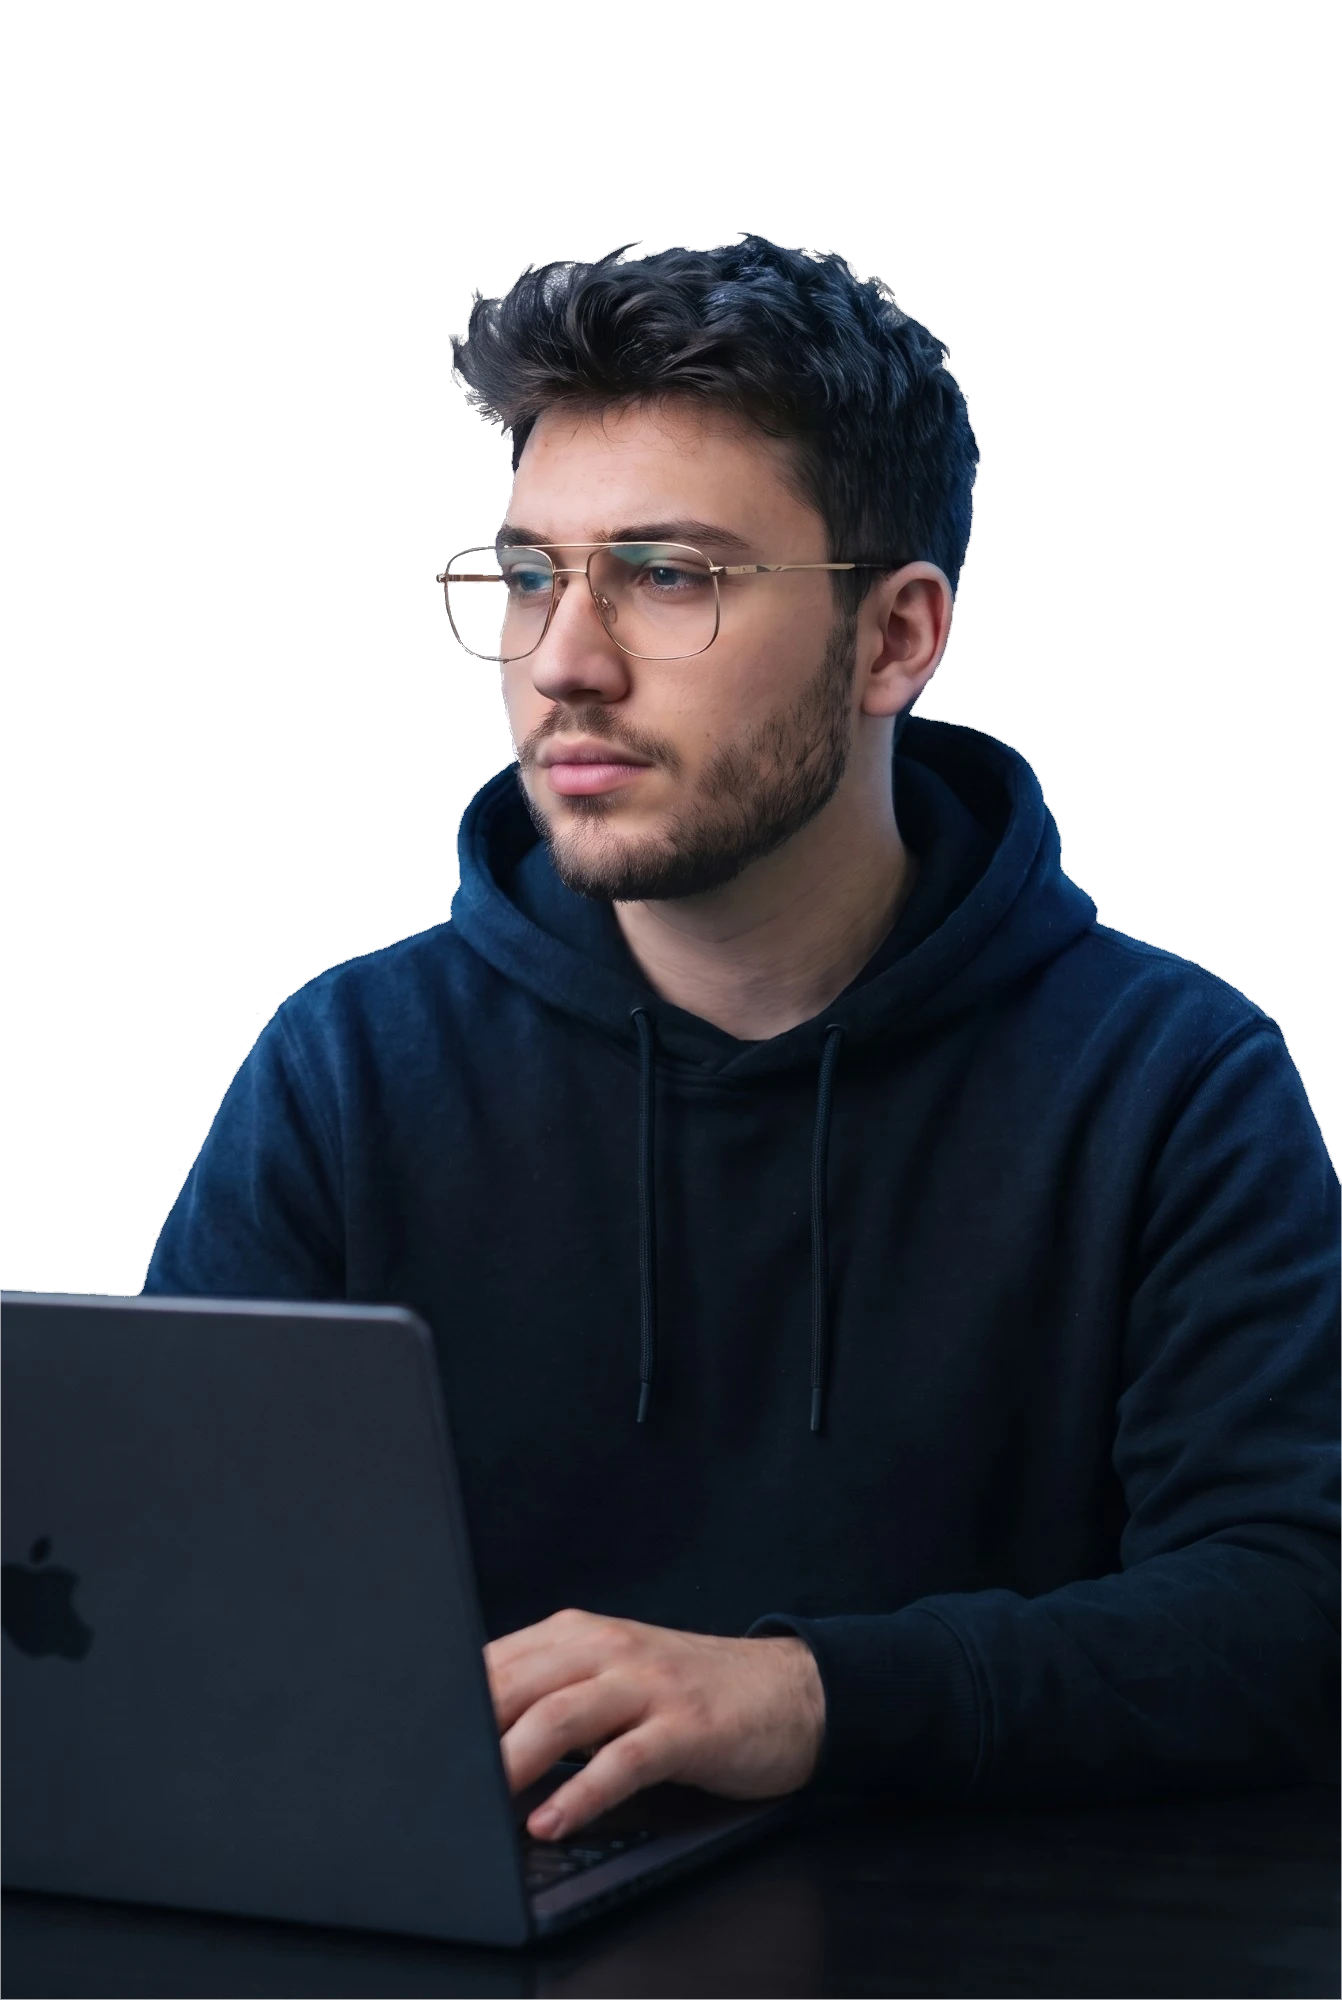
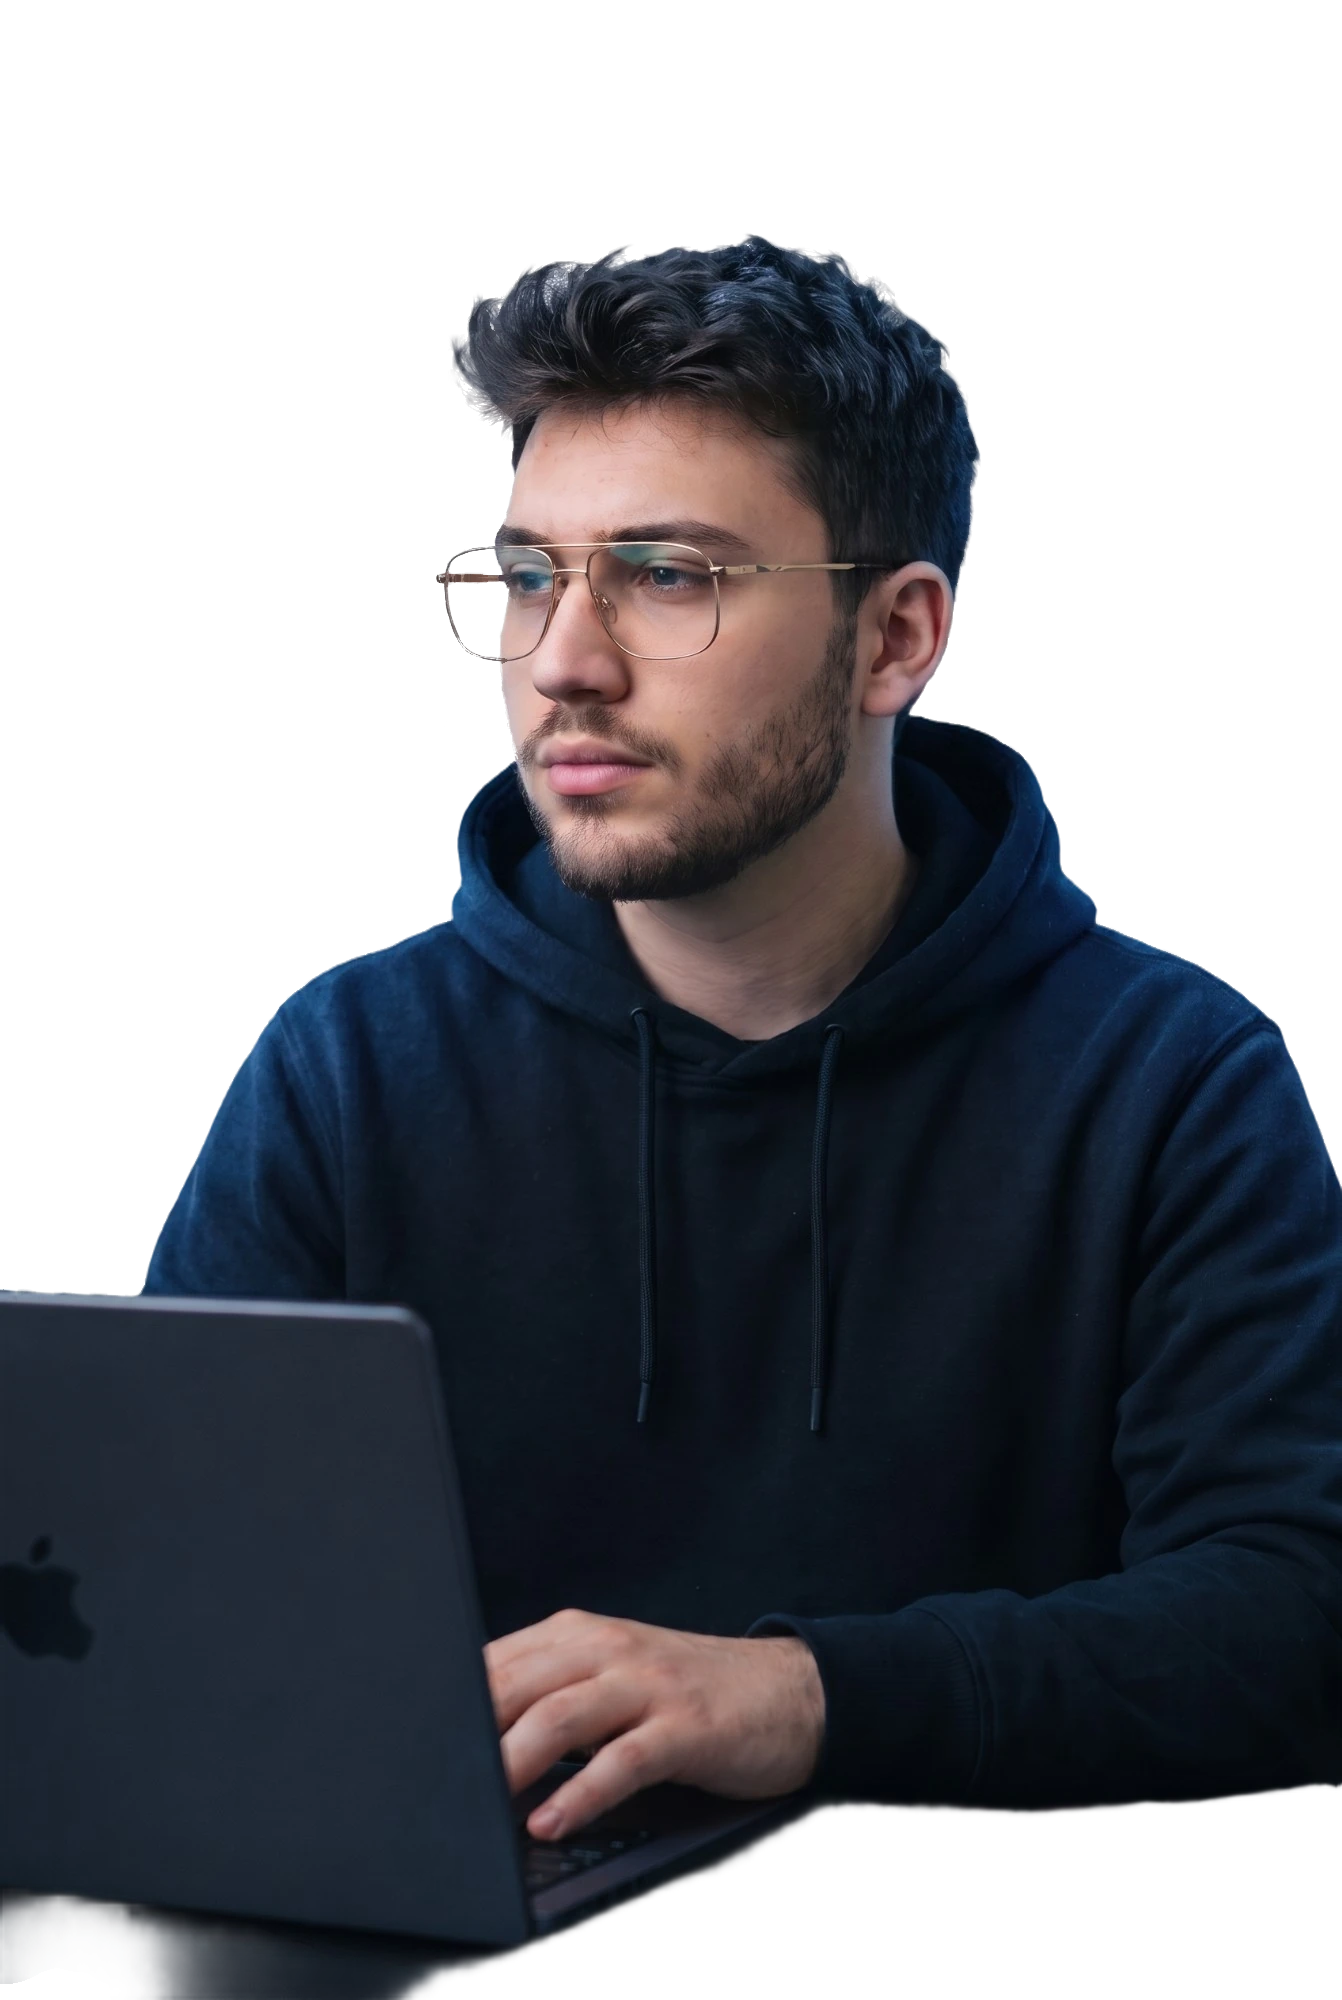
fix(home): smoother portrait edges, "6 yrs experience" stat
Recut the portrait from a BiRefNet portrait mask, which follows the
cheek and hoodie smoothly instead of stepping. The gold frame past the
cheek is still added back from the colour key, checker leftovers in the
soft hair edge are dropped, and the light fringe is recoloured without
hardening the edge. The third hero stat now reads "6 yrs experience".

Claude-Session: https://claude.ai/code/session_019DcBCuqzMDAtmg72CdH3Qh

diff --git a/src/lib/home.ts b/src/lib/home.ts
@@ -24,7 +24,7 @@ export const copy = {
     stats: [
       { n: { en: '2,441', tr: '2.441' }, l: { en: 'commits on Patimania', tr: "Patimania commit'i" } },
       { n: { en: '315k', tr: '315 bin' }, l: { en: 'lines of TypeScript', tr: 'satır TypeScript' } },
-      { n: { en: '6 yrs', tr: '6 yıl' }, l: { en: 'making games in Unity', tr: 'Unity ile oyun' } },
+      { n: { en: '6 yrs', tr: '6 yıl' }, l: { en: 'experience', tr: 'deneyim' } },
     ],
     note: { en: 'better code, better tomorrow :)', tr: 'daha iyi kod, daha iyi yarın :)' },
     now: { en: 'Currently working on', tr: 'Şu an üzerinde çalıştığım' },
